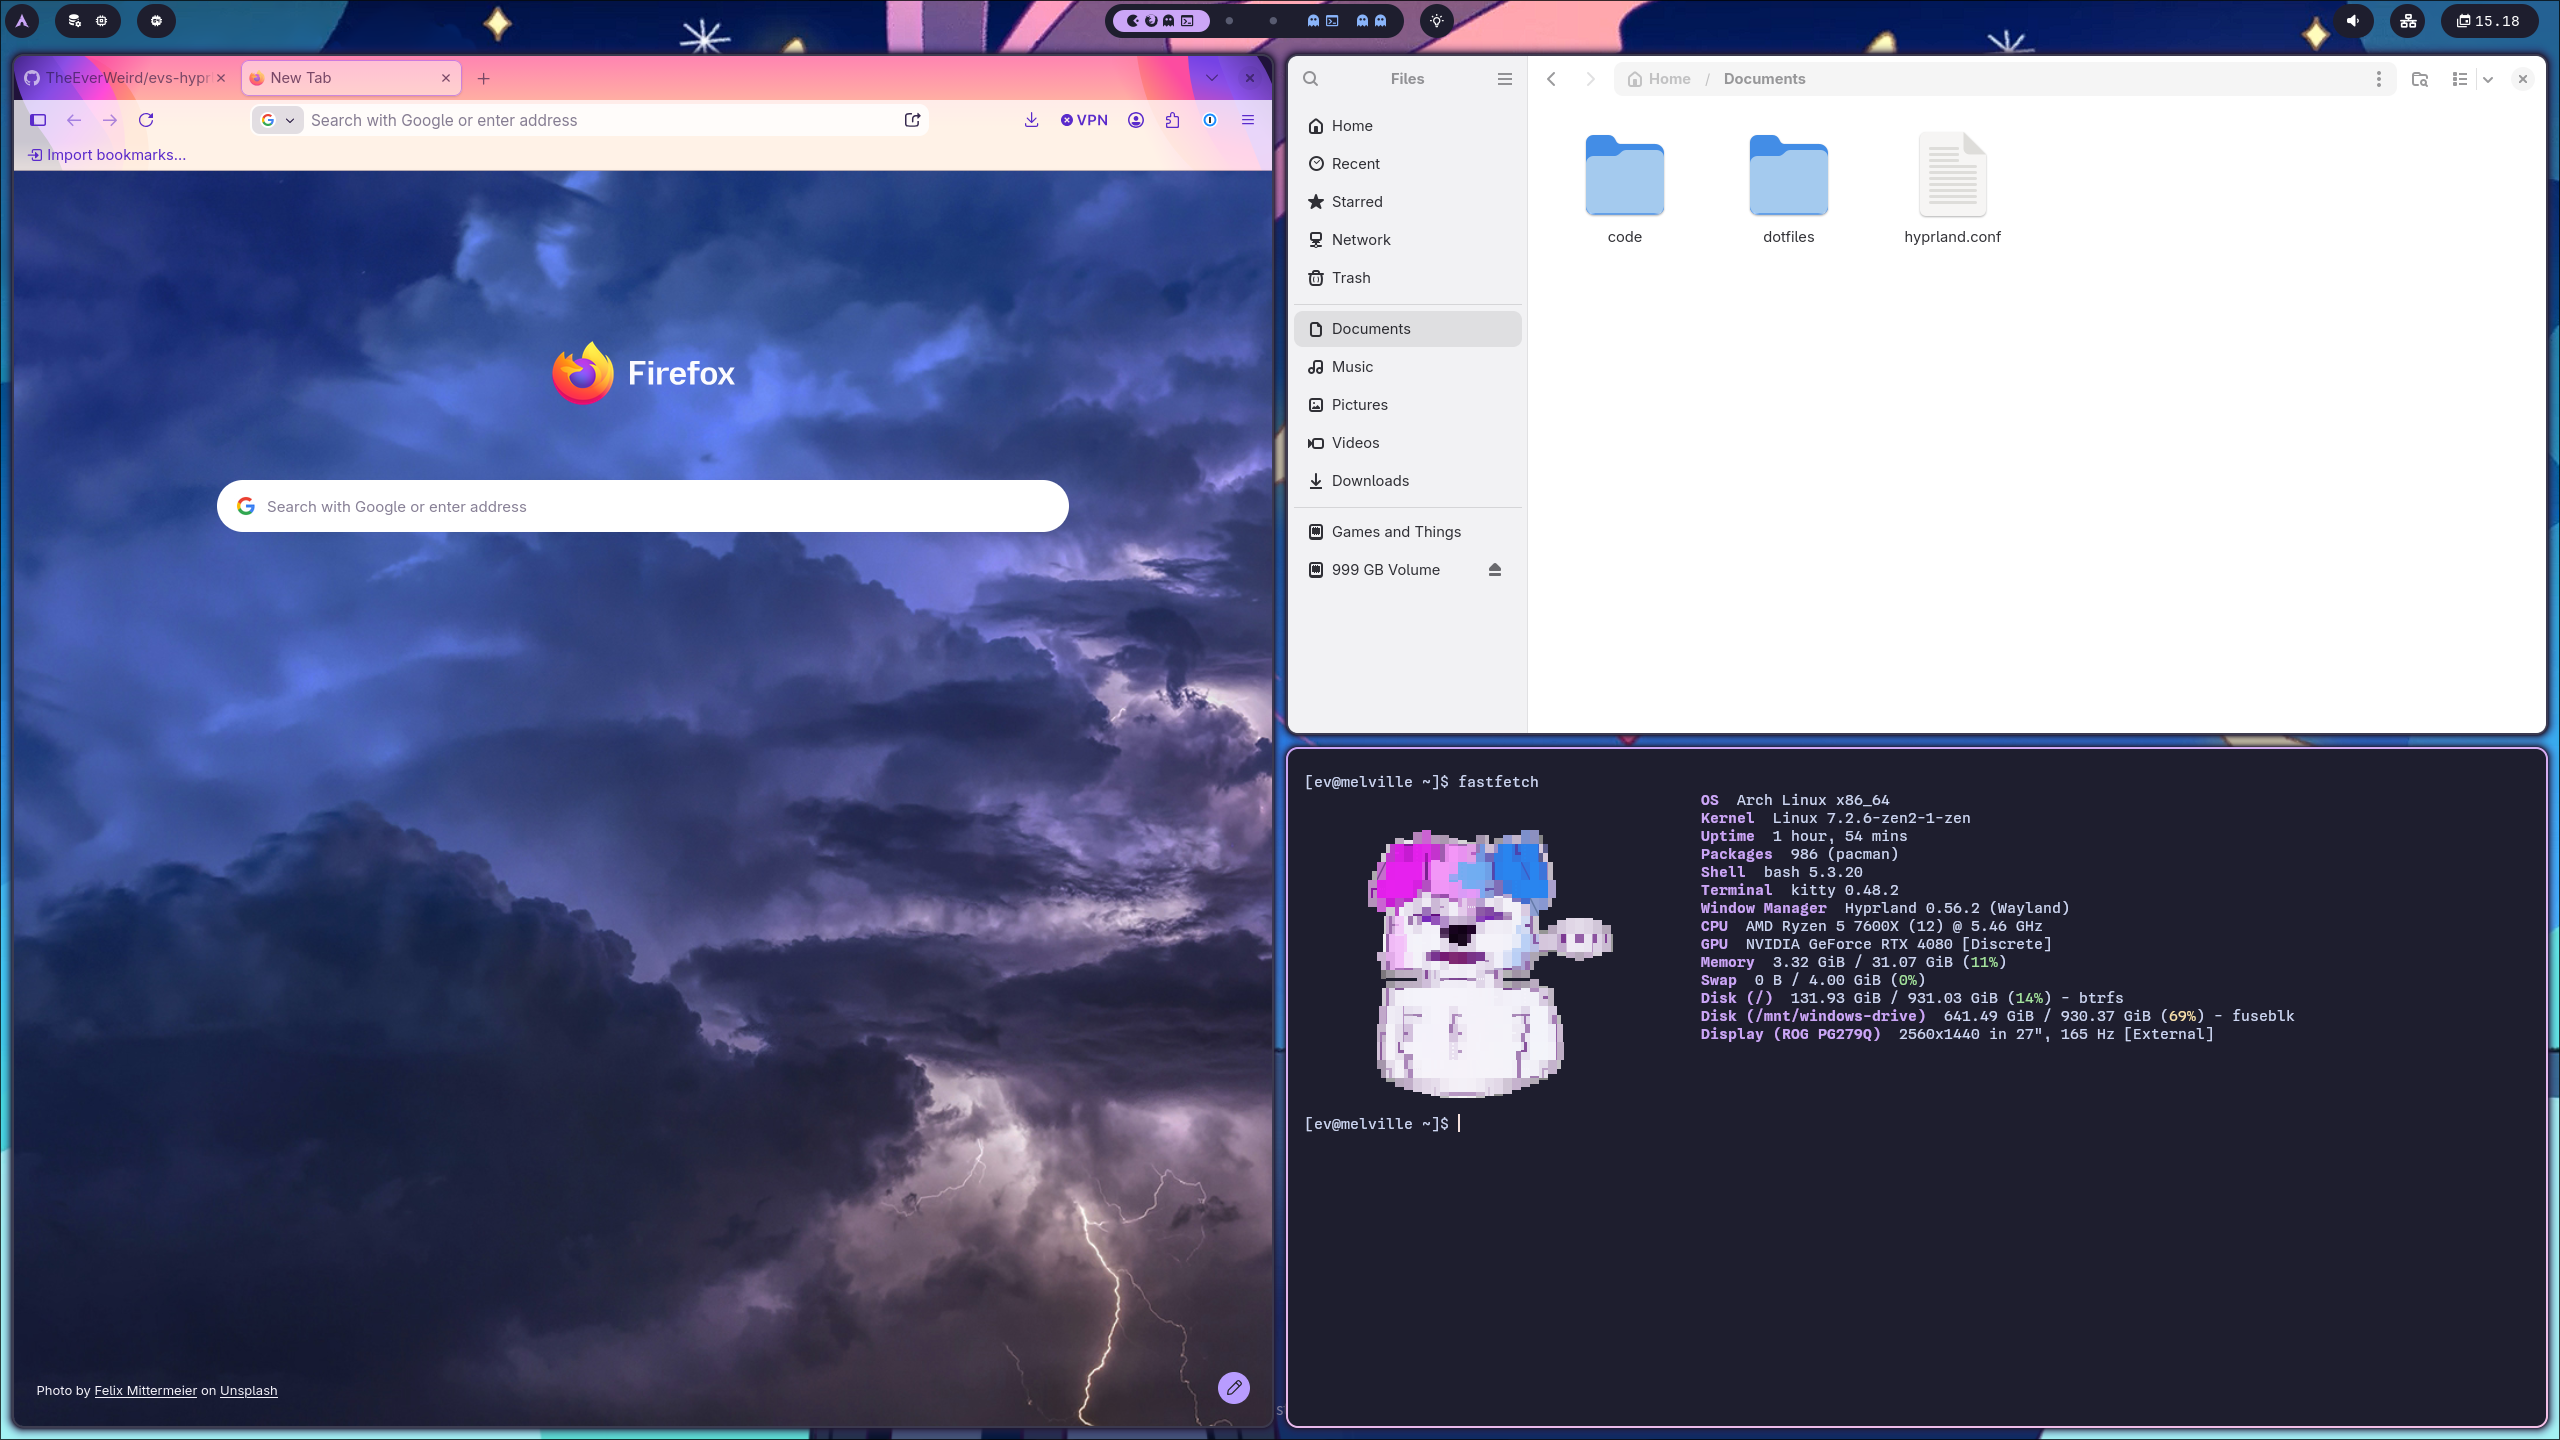
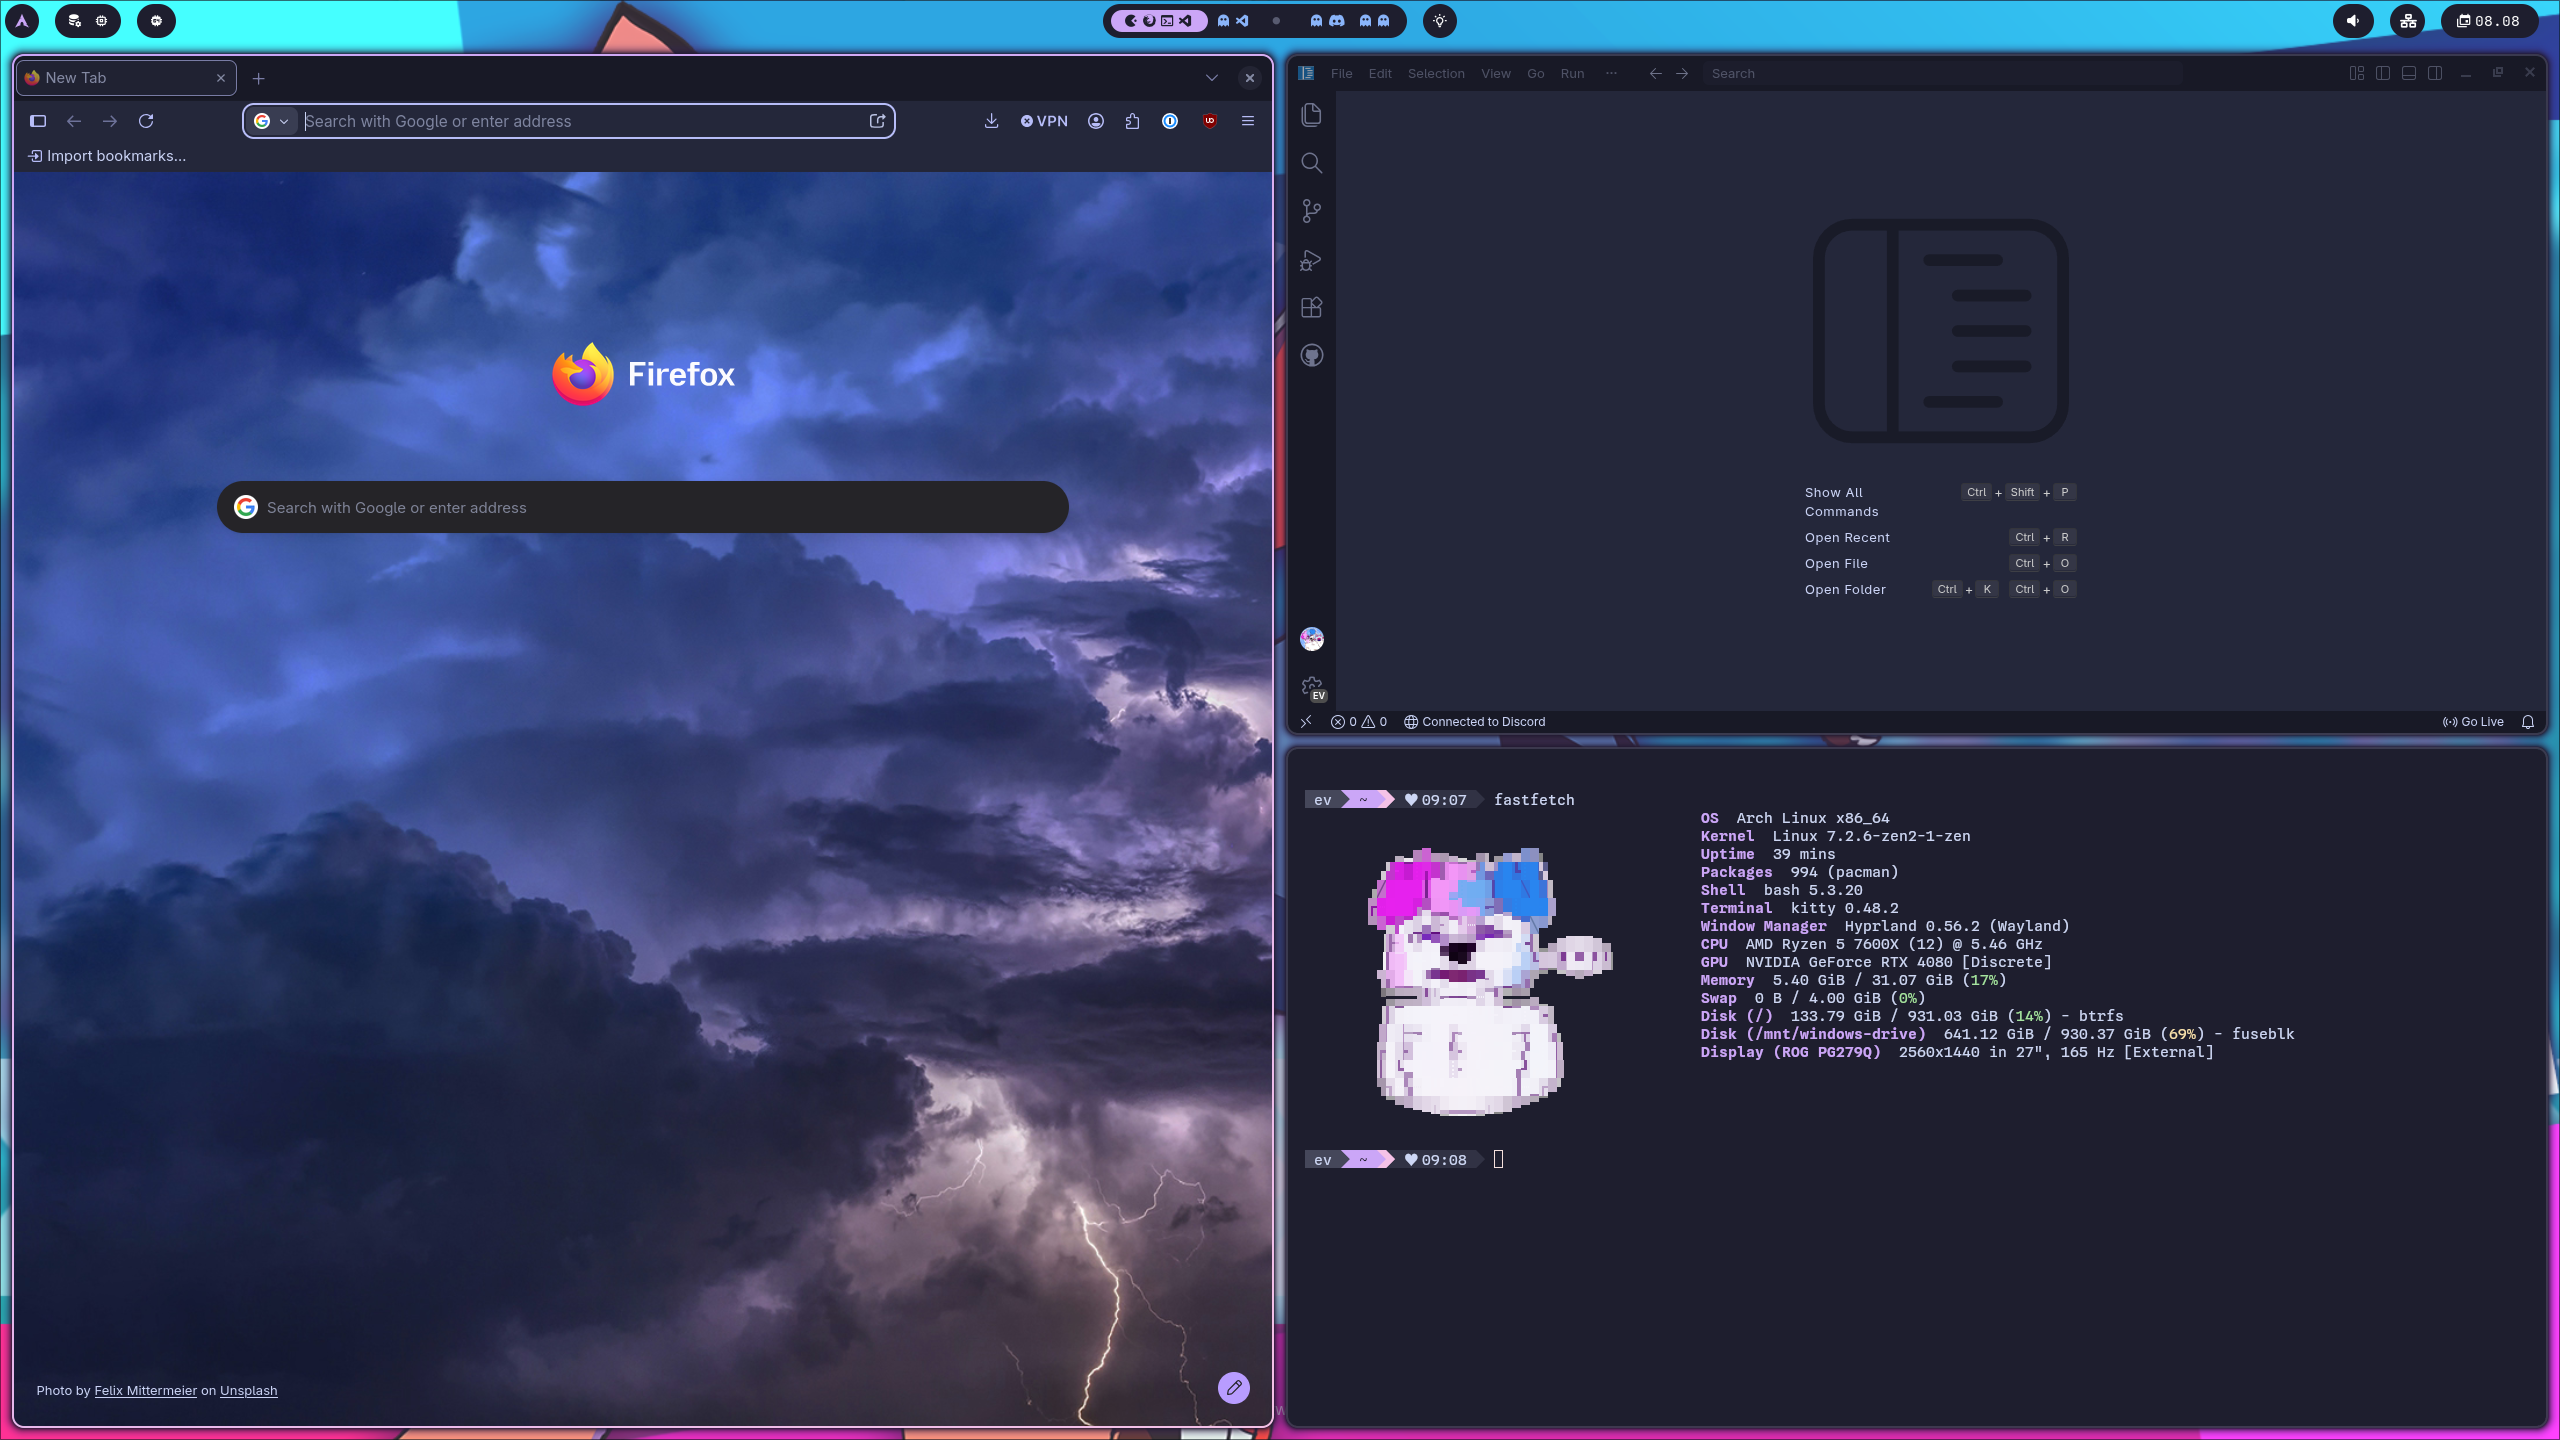
Replaced example screenshots, added starship config

diff --git a/README.md b/README.md
@@ -31,6 +31,7 @@ In this repo are my dotfiles for:
 * Kitty
 * Waybar
 * Wofi
+* Starship
 
 ## Acknowledgements
-The waybar config I have is an edited version of [haikal-hakim](https://github.com/haikal-hakim)'s [athena](https://github.com/haikal-hakim/athena/tree/main/.config/waybar) dotfiles. My hyprlock configs are edited versions of [mahaveergurjar](https://github.com/mahaveergurjar)'s [Hyprlock Dots](https://github.com/mahaveergurjar/Hyprlock-Dots). The rest of my configs are mostly generated by Google Gemini and then editied by me.
+The waybar config I have is an edited version of [haikal-hakim](https://github.com/haikal-hakim)'s [athena](https://github.com/haikal-hakim/athena/tree/main/.config/waybar) dotfiles. My hyprlock configs are edited versions of [mahaveergurjar](https://github.com/mahaveergurjar)'s [Hyprlock Dots](https://github.com/mahaveergurjar/Hyprlock-Dots). The Starship config is an edited version of [juxtopposed](https://github.com/juxtopposed)'s [hprland-terminal](https://github.com/juxtopposed/hyprland-terminal) starship config. The rest of my configs are mostly generated by Google Gemini and then editied by me.
